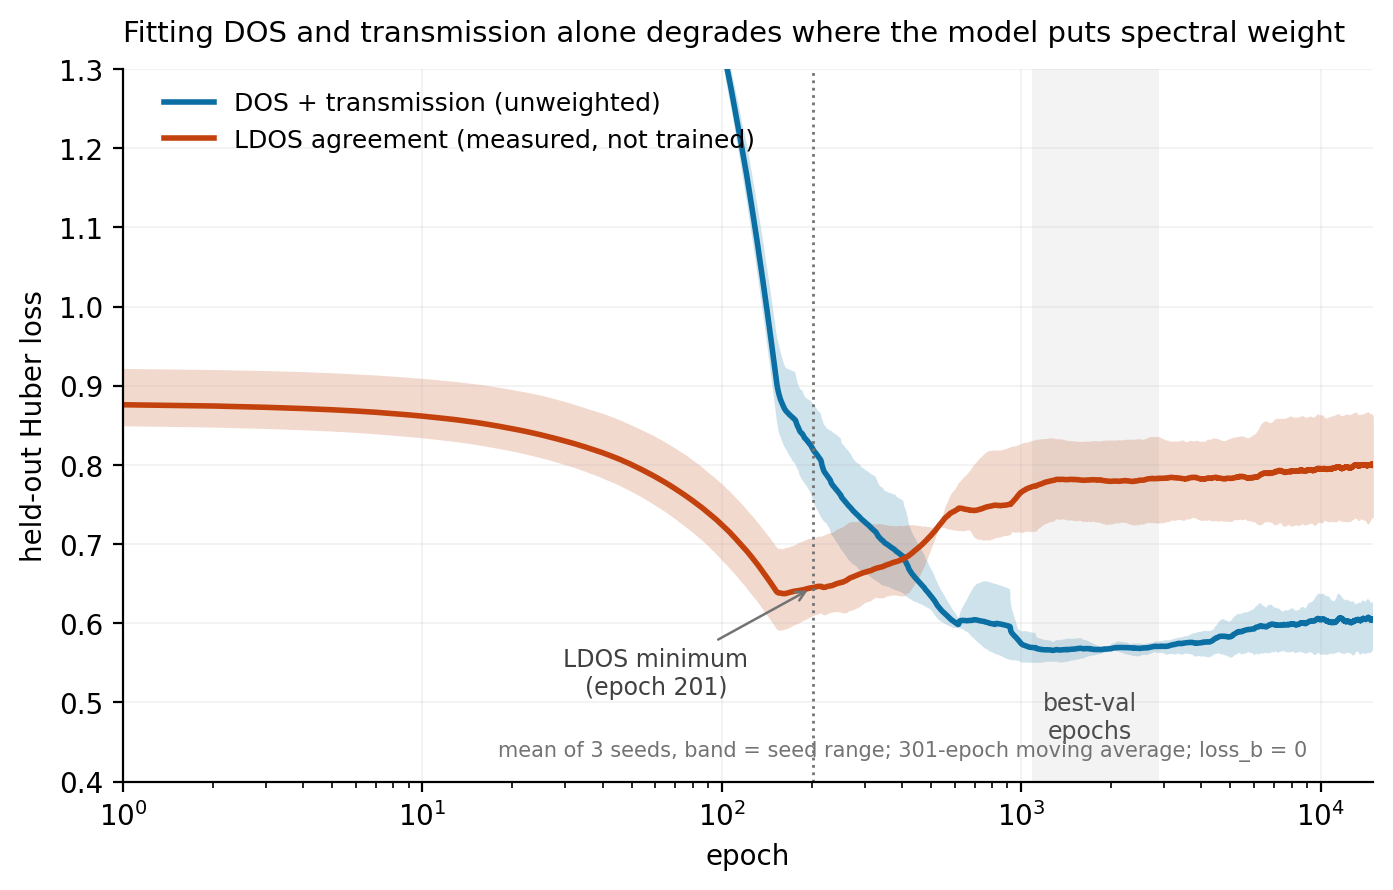
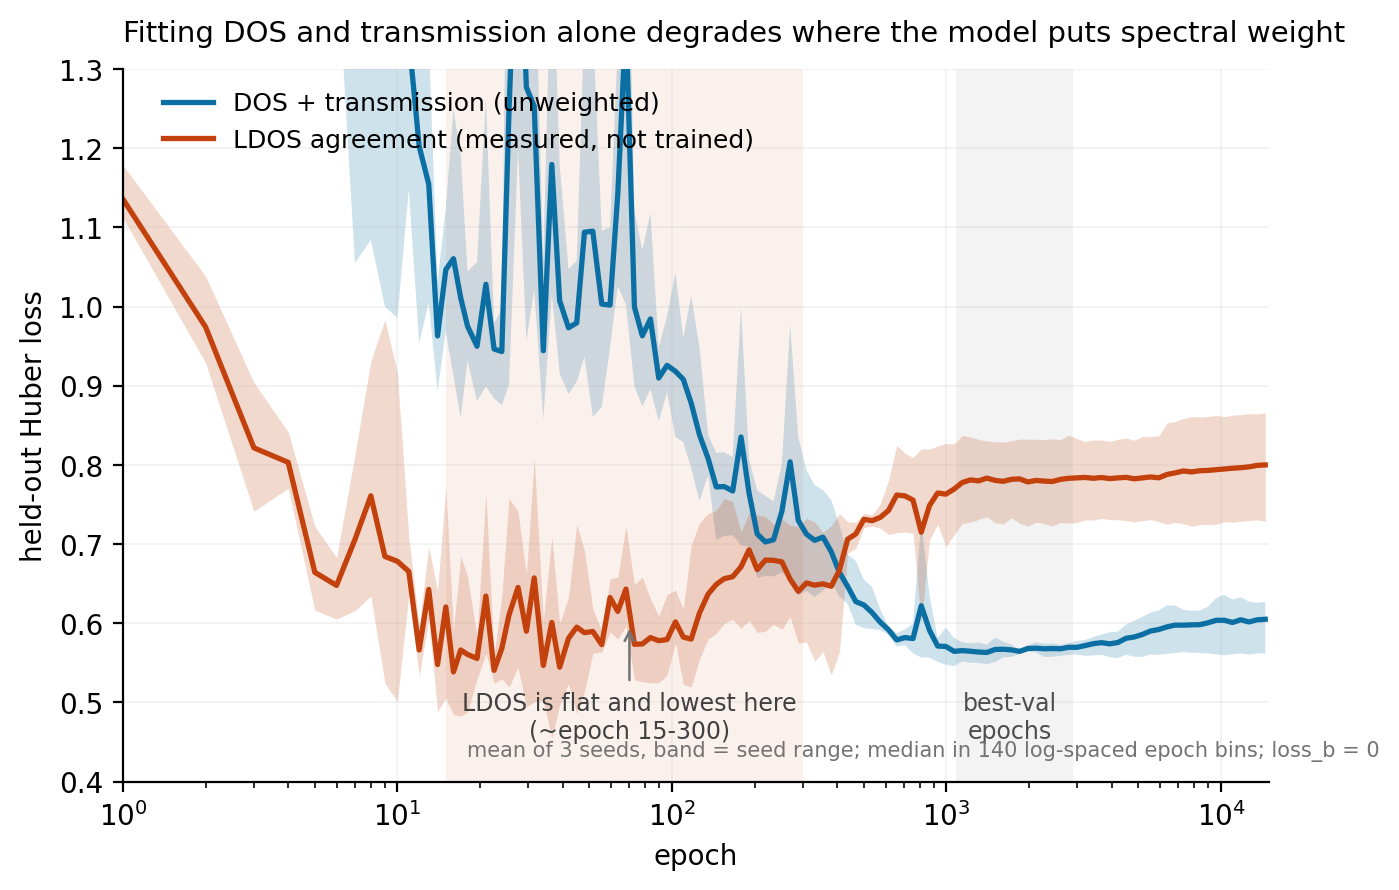
docs(ldos): log-spaced binning, and retract the smoothed-minimum numbers
A 301-epoch moving average is wrong on a log axis -- the window spans two
decades at epoch 10 and a sliver at epoch 10000, over-smoothing exactly
where the structure is. It manufactured a smooth LDOS valley bottoming at
epoch 201. There is no such valley: unsmoothed, LDOS drops to ~0.55 by
epoch ~15 and then sits on a noisy plateau to ~300 before climbing.

Rebinned uniformly in log(epoch), which keeps the smoothing constant in
the display space. Corrected numbers: binned LDOS minimum 0.5385 at epoch
~15, where DOS+T is 1.0605 -- not 0.6448/0.8206 as the moving average
reported.

This strengthens the caveat rather than weakening the result: the early
LDOS advantage sits where the transport fit is nearly twice its optimum,
so it is even less reachable by early stopping than previously stated.

Claude-Session: https://claude.ai/code/session_018qrkv8PxyfHBfm922ynGbd

diff --git a/docs/model-results.md b/docs/model-results.md
@@ -862,19 +862,28 @@ while LDOS worsens by 0.315.
 
 ![DOS/LDOS trade-off at b=0](figures/ldos-tradeoff.png)
 
-*Mean of the three seeds, band = seed range, 301-epoch moving average, `loss_b = 0`. The
-LDOS curve is measured but never trained -- it is a passive observer of what fitting DOS and
-transmission does to spectral-weight placement.*
+*Mean of the three seeds, band = seed range, median within 140 log-spaced epoch bins,
+`loss_b = 0`. The LDOS curve is measured but never trained -- it is a passive observer of
+what fitting DOS and transmission does to spectral-weight placement.*
 
-Averaged over seeds, the smoothed curves put the exchange rate at:
+**On the binning.** An earlier version of this figure used a 301-epoch moving average, which
+is wrong on a log axis: the window spans two decades at epoch 10 and a sliver at epoch 10000,
+so it over-smooths exactly the region where the interesting structure is. It manufactured a
+smooth LDOS valley bottoming at epoch 201. There is no such valley. Binning uniformly in
+log(epoch) keeps the smoothing constant in the display space and shows what is really there:
+LDOS falls fast, then sits on a **noisy plateau from roughly epoch 15 to 300**, then climbs.
 
 | | LDOS agreement | DOS+T |
 |---|---|---|
-| at the LDOS minimum (epoch 201) | **0.6448** | 0.8206 |
-| at best-val (epoch 1083-2889) | **0.7809** | 0.5676 |
+| binned minimum (epoch ~15) | **0.5385** | 1.0605 |
+| at best-val (epoch 1083-2889) | **0.7818** | 0.5663 |
+| final (epoch 15000) | 0.8000 | ~0.61 |
 
-Going from the LDOS minimum to best-val buys 0.253 of DOS+T at a cost of 0.136 of LDOS
-agreement. The band never closes after epoch ~600: no seed recovers its early LDOS.
+The early LDOS advantage is **not reachable at a good transport fit**: where LDOS is lowest,
+DOS+T is 1.06, nearly double its 0.566 optimum. That is the point of the figure -- the model
+begins with better spectral-weight placement than it ends with, and spends that placement to
+buy DOS and transmission accuracy. The bands never re-cross after epoch ~600; no seed
+recovers its early LDOS.
 
 **Interpretation, and its limit.** Trained on aggregate observables alone, the model reaches
 a Hamiltonian that reproduces the total DOS and the contact-to-contact transmission better
